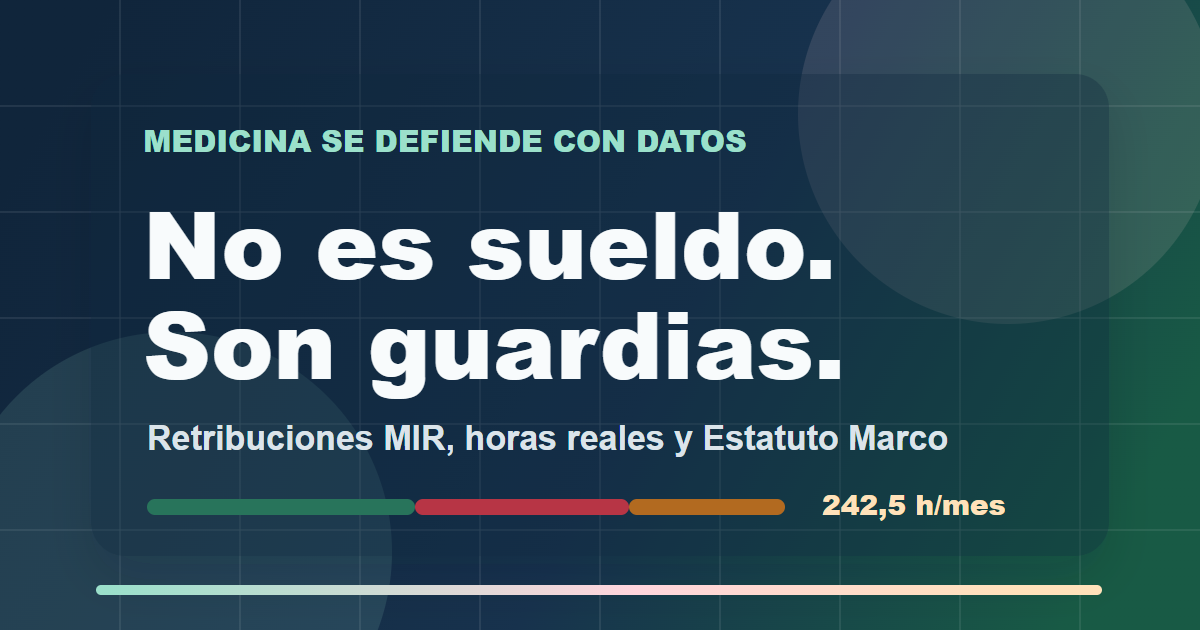
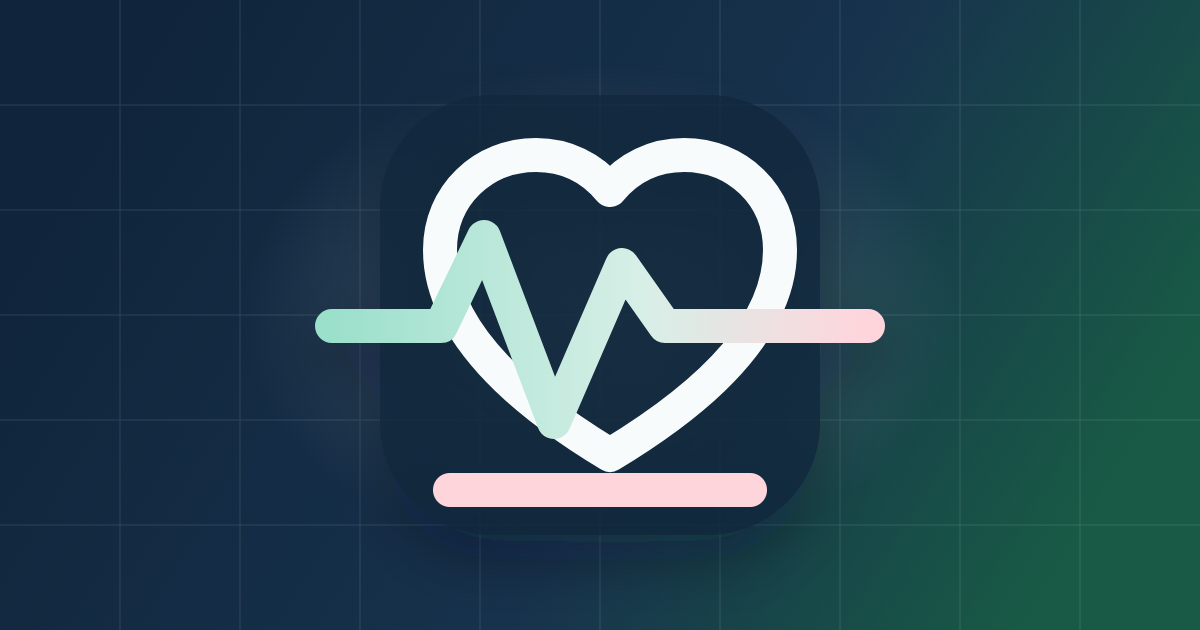
Clarify MIR hourly rate and hours comparison

diff --git a/src/styles.css b/src/styles.css
@@ -602,6 +602,127 @@ h2 {
   background: var(--red);
 }
 
+.hours-compare-card {
+  display: grid;
+  gap: 1rem;
+  margin-top: 1rem;
+  padding: 1rem;
+}
+
+.hours-copy h3 {
+  font-size: 1.45rem;
+  margin-bottom: 0.55rem;
+}
+
+.hours-copy p {
+  color: var(--muted);
+  line-height: 1.55;
+  margin-bottom: 0;
+}
+
+.hours-visual {
+  display: grid;
+  gap: 0.9rem;
+}
+
+.hour-line {
+  display: grid;
+  gap: 0.45rem;
+}
+
+.hour-line-label {
+  align-items: baseline;
+  display: flex;
+  gap: 0.7rem;
+  justify-content: space-between;
+}
+
+.hour-line-label span {
+  color: var(--muted);
+  font-weight: 800;
+}
+
+.hour-line-label strong {
+  color: var(--ink);
+  white-space: nowrap;
+}
+
+.hour-track {
+  background: #dfe9ee;
+  border-radius: 999px;
+  box-shadow: inset 0 1px 4px rgba(16, 37, 59, 0.15);
+  display: flex;
+  height: 22px;
+  overflow: hidden;
+}
+
+.hour-fill {
+  display: block;
+  min-width: 2px;
+}
+
+.hour-fill.standard {
+  background: var(--blue);
+}
+
+.hour-fill.ordinary {
+  background: var(--green);
+}
+
+.hour-fill.guard {
+  background: var(--red);
+}
+
+.hour-fill.training {
+  background: var(--amber);
+}
+
+.hour-summary {
+  display: flex;
+  flex-wrap: wrap;
+  gap: 0.45rem;
+}
+
+.hour-summary span,
+.hour-summary strong {
+  background: var(--soft-blue);
+  border-radius: 999px;
+  color: var(--blue);
+  font-size: 0.9rem;
+  font-weight: 900;
+  padding: 0.55rem 0.7rem;
+}
+
+.hour-summary strong {
+  background: #fbe8dc;
+  color: var(--red-dark);
+}
+
+.hour-price {
+  background: linear-gradient(145deg, var(--blue), var(--green-dark));
+  border-radius: 16px;
+  color: white;
+  padding: 1rem;
+}
+
+.hour-price span,
+.hour-price small {
+  color: rgba(255, 255, 255, 0.78);
+  display: block;
+}
+
+.hour-price strong {
+  color: #ffe2ba;
+  display: block;
+  font-size: clamp(2.25rem, 12vw, 4.7rem);
+  line-height: 0.95;
+  margin: 0.35rem 0;
+}
+
+.hour-price small {
+  line-height: 1.45;
+}
+
 .principles,
 .demands {
   display: grid;
@@ -888,7 +1009,10 @@ footer strong {
     justify-content: flex-end;
   }
 
-  .hero-metrics,
+  .hero-metrics {
+    grid-template-columns: repeat(4, 1fr);
+  }
+
   .calc-grid,
   .principles,
   .demands {
@@ -903,6 +1027,15 @@ footer strong {
   .controls-row,
   .ccaa-highlight {
     grid-template-columns: 1fr 1fr;
+  }
+
+  .hours-compare-card {
+    grid-template-columns: minmax(0, 1.05fr) minmax(0, 1.25fr);
+  }
+
+  .hour-summary,
+  .hour-price {
+    grid-column: 1 / -1;
   }
 
   .csif-response {

diff --git a/src/main.jsx b/src/main.jsx
@@ -60,6 +60,8 @@ function App() {
   const selectedGross = selected.withGuardsGross[yearIndex];
   const selectedBase = selected.base[yearIndex];
   const selectedHourly = selectedNet / (includeTraining ? TRAINING_TOTAL_HOURS : TOTAL_HOURS);
+  const displayedHourly = includeTraining ? current.realNetHourWithTraining : current.realNetHour;
+  const hoursScale = includeTraining ? TRAINING_TOTAL_HOURS : TOTAL_HOURS;
   const { scrollYProgress } = useScroll();
   const smoothScaleX = useSpring(scrollYProgress, { stiffness: 120, damping: 24, restDelta: 0.001 });
   const reduceMotion = useReducedMotion();
@@ -142,6 +144,7 @@ function App() {
           <MetricCard label={`${current.year} medio sin guardias`} value={`${eur(current.grossNoGuards)} €`} detail="brutos/mes" />
           <MetricCard label={`${current.year} con 80 h de guardia`} value={`${eur(current.netWithGuards)} €`} detail="netos/mes" tone="red" />
           <MetricCard label="Horas reales mínimas" value={`${eur(TOTAL_HOURS, 1)} h`} detail="al mes" tone="amber" />
+          <MetricCard label={`${current.year} precio real medio`} value={`${eur(current.realNetHour, 2)} €`} detail="netos/h" tone="green" />
         </div>
       </section>
 
@@ -179,8 +182,9 @@ function App() {
           <span className="kicker">El cálculo que falta</span>
           <h2>Cuando metes las horas, el relato se cae.</h2>
           <p>
-            Selecciona año de residencia. La cifra central usa la media publicada en SIMEG/CTO con 80 horas
-            mensuales de guardia y la compara con la jornada ordinaria.
+            Selecciona año de residencia. La cifra central usa la media nacional publicada en SIMEG/CTO con
+            80 horas mensuales de guardia. El €/h no es el precio de una guardia concreta: es el neto medio
+            con guardias dividido entre las horas reales trabajadas.
           </p>
         </div>
 
@@ -242,6 +246,69 @@ function App() {
             label={`Media ${current.year}`}
             reduceMotion={reduceMotion}
           />
+        </SpotlightPanel>
+
+        <SpotlightPanel className="hours-compare-card">
+          <div className="hours-copy">
+            <span className="kicker">Horas frente a salario</span>
+            <h3>{current.year}: jornada española frente a jornada MIR real</h3>
+            <p>
+              La jornada completa estándar se aproxima con {eur(ORDINARY_HOURS, 1)} h/mes. El escenario del
+              cartel añade 80 h/mes de guardias. Resultado: {eur(TOTAL_HOURS, 1)} h/mes antes de contar
+              formación fuera de jornada.
+            </p>
+          </div>
+
+          <div className="hours-visual" aria-label="Comparación de horas mensuales">
+            <div className="hour-line">
+              <div className="hour-line-label">
+                <span>Jornada laboral estándar</span>
+                <strong>{eur(ORDINARY_HOURS, 1)} h/mes</strong>
+              </div>
+              <span className="hour-track">
+                <span className="hour-fill standard" style={{ width: `${(ORDINARY_HOURS / hoursScale) * 100}%` }} />
+              </span>
+            </div>
+            <div className="hour-line resident">
+              <div className="hour-line-label">
+                <span>MIR con 80 h de guardia</span>
+                <strong>{eur(TOTAL_HOURS, 1)} h/mes</strong>
+              </div>
+              <span className="hour-track">
+                <span className="hour-fill ordinary" style={{ width: `${(ORDINARY_HOURS / hoursScale) * 100}%` }} />
+                <span className="hour-fill guard" style={{ width: `${(GUARD_HOURS / hoursScale) * 100}%` }} />
+              </span>
+            </div>
+            {includeTraining && (
+              <div className="hour-line training-extra">
+                <div className="hour-line-label">
+                  <span>Con formación no registrada</span>
+                  <strong>{eur(TRAINING_TOTAL_HOURS, 1)} h/mes</strong>
+                </div>
+                <span className="hour-track">
+                  <span className="hour-fill ordinary" style={{ width: `${(ORDINARY_HOURS / hoursScale) * 100}%` }} />
+                  <span className="hour-fill guard" style={{ width: `${(GUARD_HOURS / hoursScale) * 100}%` }} />
+                  <span className="hour-fill training" style={{ width: `${((TRAINING_TOTAL_HOURS - TOTAL_HOURS) / hoursScale) * 100}%` }} />
+                </span>
+              </div>
+            )}
+          </div>
+
+          <div className="hour-summary">
+            <span>{eur(ORDINARY_HOURS, 1)} h ordinarias</span>
+            <span>+ {GUARD_HOURS} h guardias</span>
+            {includeTraining && <span>+ {eur(TRAINING_TOTAL_HOURS - TOTAL_HOURS, 1)} h formación</span>}
+            <strong>= {eur(includeTraining ? TRAINING_TOTAL_HOURS : TOTAL_HOURS, 1)} h/mes</strong>
+          </div>
+
+          <div className="hour-price">
+            <span>Precio medio real empleado</span>
+            <strong>{eur(displayedHourly, 2)} €/h netos</strong>
+            <small>
+              Media nacional {current.year}: {eur(current.netWithGuards)} € netos/mes con 80 h de guardia /
+              {eur(includeTraining ? TRAINING_TOTAL_HOURS : TOTAL_HOURS, 1)} h reales.
+            </small>
+          </div>
         </SpotlightPanel>
       </RevealSection>
 

diff --git a/index.html b/index.html
@@ -30,7 +30,7 @@
     <meta property="og:image:type" content="image/png" />
     <meta property="og:image:width" content="1200" />
     <meta property="og:image:height" content="630" />
-    <meta property="og:image:alt" content="No es sueldo. Son guardias. Retribuciones MIR, horas reales y Estatuto Marco." />
+    <meta property="og:image:alt" content="Logo de MIR guardias con corazon y pulso." />
     <meta name="twitter:card" content="summary_large_image" />
     <meta name="twitter:title" content="MIR: no es sueldo, son guardias" />
     <meta
@@ -38,7 +38,7 @@
       content="Datos reales sobre retribuciones MIR, guardias, horas trabajadas y por que el Estatuto Marco no resuelve las condiciones medicas."
     />
     <meta name="twitter:image" content="https://guallar7.github.io/mir-estatuto-realidad/og-image.png" />
-    <meta name="twitter:image:alt" content="No es sueldo. Son guardias. Retribuciones MIR, horas reales y Estatuto Marco." />
+    <meta name="twitter:image:alt" content="Logo de MIR guardias con corazon y pulso." />
     <title>MIR: no es sueldo, son guardias</title>
   </head>
   <body>